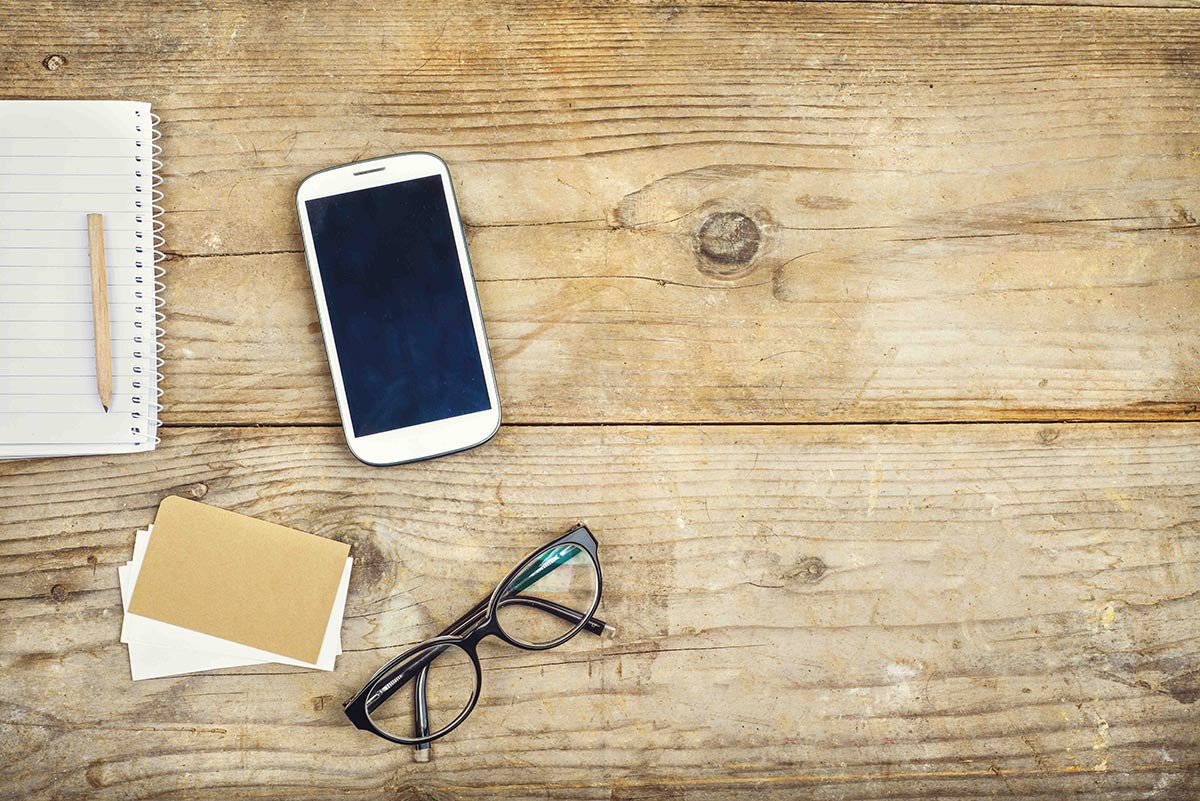
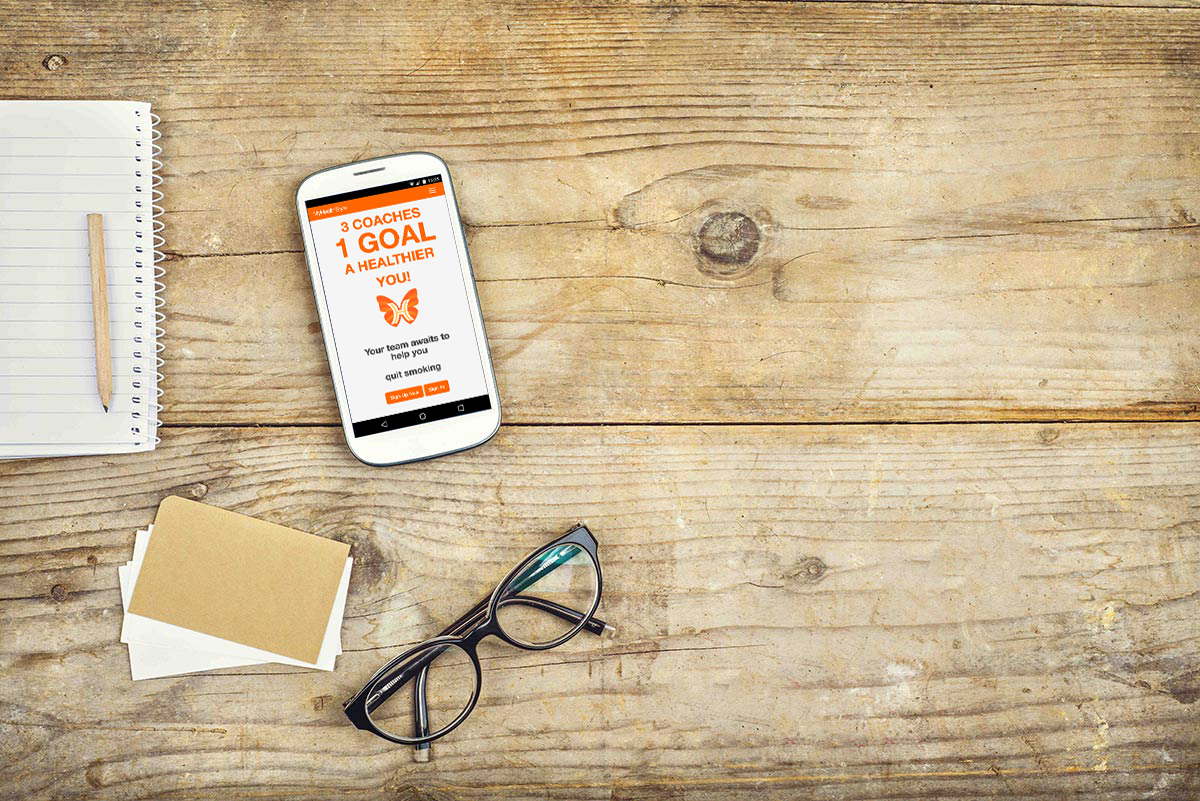
Added to top carousel on welcome page and text underneath.

Changed region(s): [[0.2467, 0.2185, 0.4317, 0.5618]]

diff --git a/app/assets/stylesheets/welcome.scss b/app/assets/stylesheets/welcome.scss
@@ -109,7 +109,7 @@ div.h2 span.tagline {
     background-image: url(reach-your-potential-mobile.jpg);
     vertical-align: middle;
     font-weight: normal;
-    height: 100vh;
+    height: 100%;
   }
   #second-learn-more {
     background-image: url(phone-on-table-mobile.jpg);
@@ -181,6 +181,6 @@ div.h2 span.tagline {
 
   #learn-more-right {
     font-size: 1em;
-    padding: 5%;
+    padding: 9%;
   }
 }
